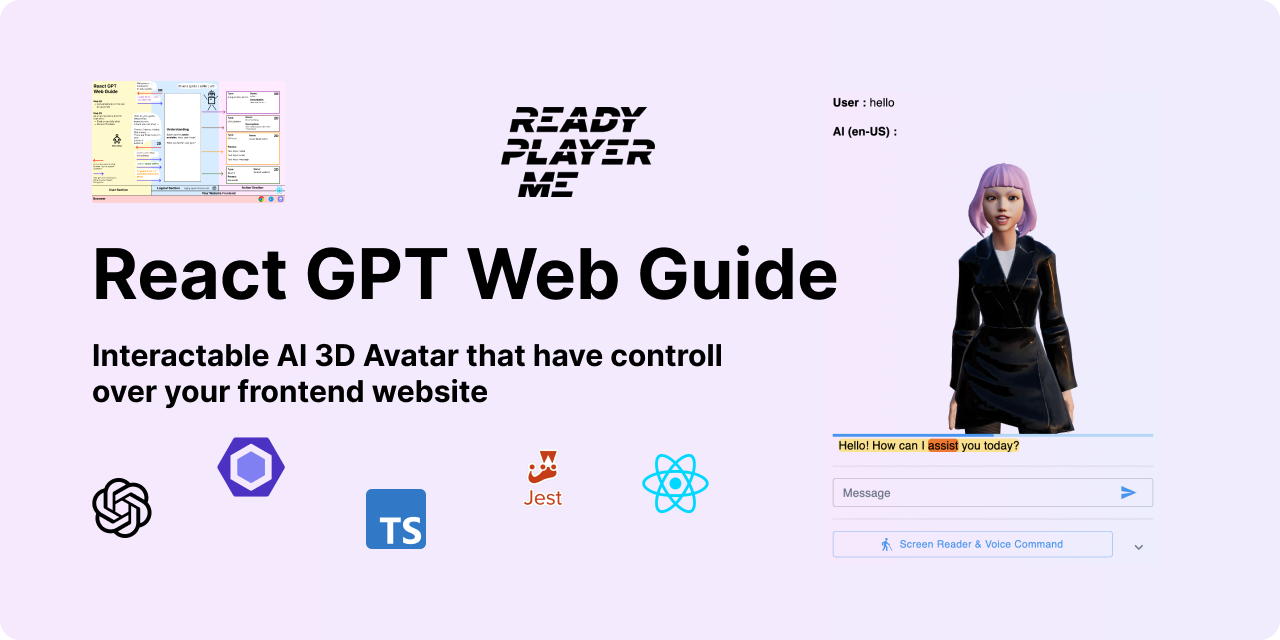
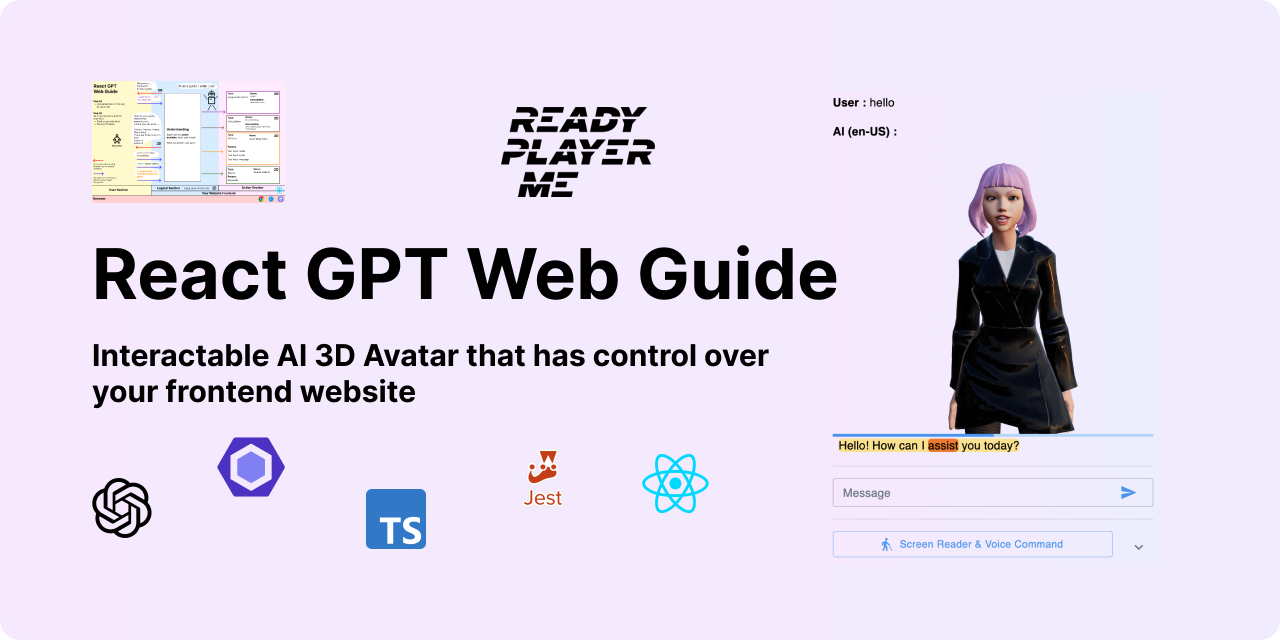
Update README.md

Changed region(s): [[0.0625, 0.5938, 0.375, 0.6562], [0.4375, 0.5312, 0.5938, 0.5938]]

diff --git a/README.md b/README.md
@@ -4,7 +4,6 @@
 
 [Try the demo React GPT Web Guide](https://react-gpt-web-guide.vercel.app)
 
-
 Ask something? discord: albirrkarim
 
 <a href="https://discordapp.com/channels/@me/884043164908929034" title="Message me with discord">
@@ -18,8 +17,9 @@ Ask something? discord: albirrkarim
 - All the feature that [React Speech Highlight](https://github.com/albirrkarim/react-speech-highlight-demo) have. This is the extended product of that package.
 - Tested function and prompts using [jest](https://jestjs.io) and code linting using [eslint](https://eslint.org)
 - Efficient [Chat GPT API cost](https://openai.com/pricing)
-- [Typescript](https://www.typescriptlang.org), [Js Doc](https://jsdoc.app), [VS Code Intellisense](https://code.visualstudio.com/docs/editor/intellisense)
+- Support [Typescript](https://www.typescriptlang.org), [Js Doc](https://jsdoc.app), [VS Code Intellisense](https://code.visualstudio.com/docs/editor/intellisense)
 - Flexible package API.
+- Less dependencies.
 
 <br/>
 <br/>
@@ -116,11 +116,9 @@ You can set programatic action. so the package can integrate into your system.
 
 ## C. API & Example Code
 
-See [API.md](API.md)
+See [API.md](API.md) and [EXAMPLE_CODE.md](EXAMPLE_CODE.md) that contain simple example code.
 
-See [EXAMPLE_CODE.md](EXAMPLE_CODE.md)
-
-Contain simple example code, the full example code and implementation example using source code from demo website. the source code of demo website is included when you buy this package.
+The full example code and implementation example using source code from demo website. the source code of demo website is included when you buy this package.
 
 <br/>
 
@@ -209,6 +207,8 @@ Just use the source code from demo website, you can literally just understand th
 <br/>
 
 The price is $140 USD. 
+
+React GPT Web Guide ($100) + [React Speech Highlight](https://github.com/albirrkarim/react-speech-highlight-demo) (~~$70~~)($40) = $140
 
 I accept various payment method:
 
